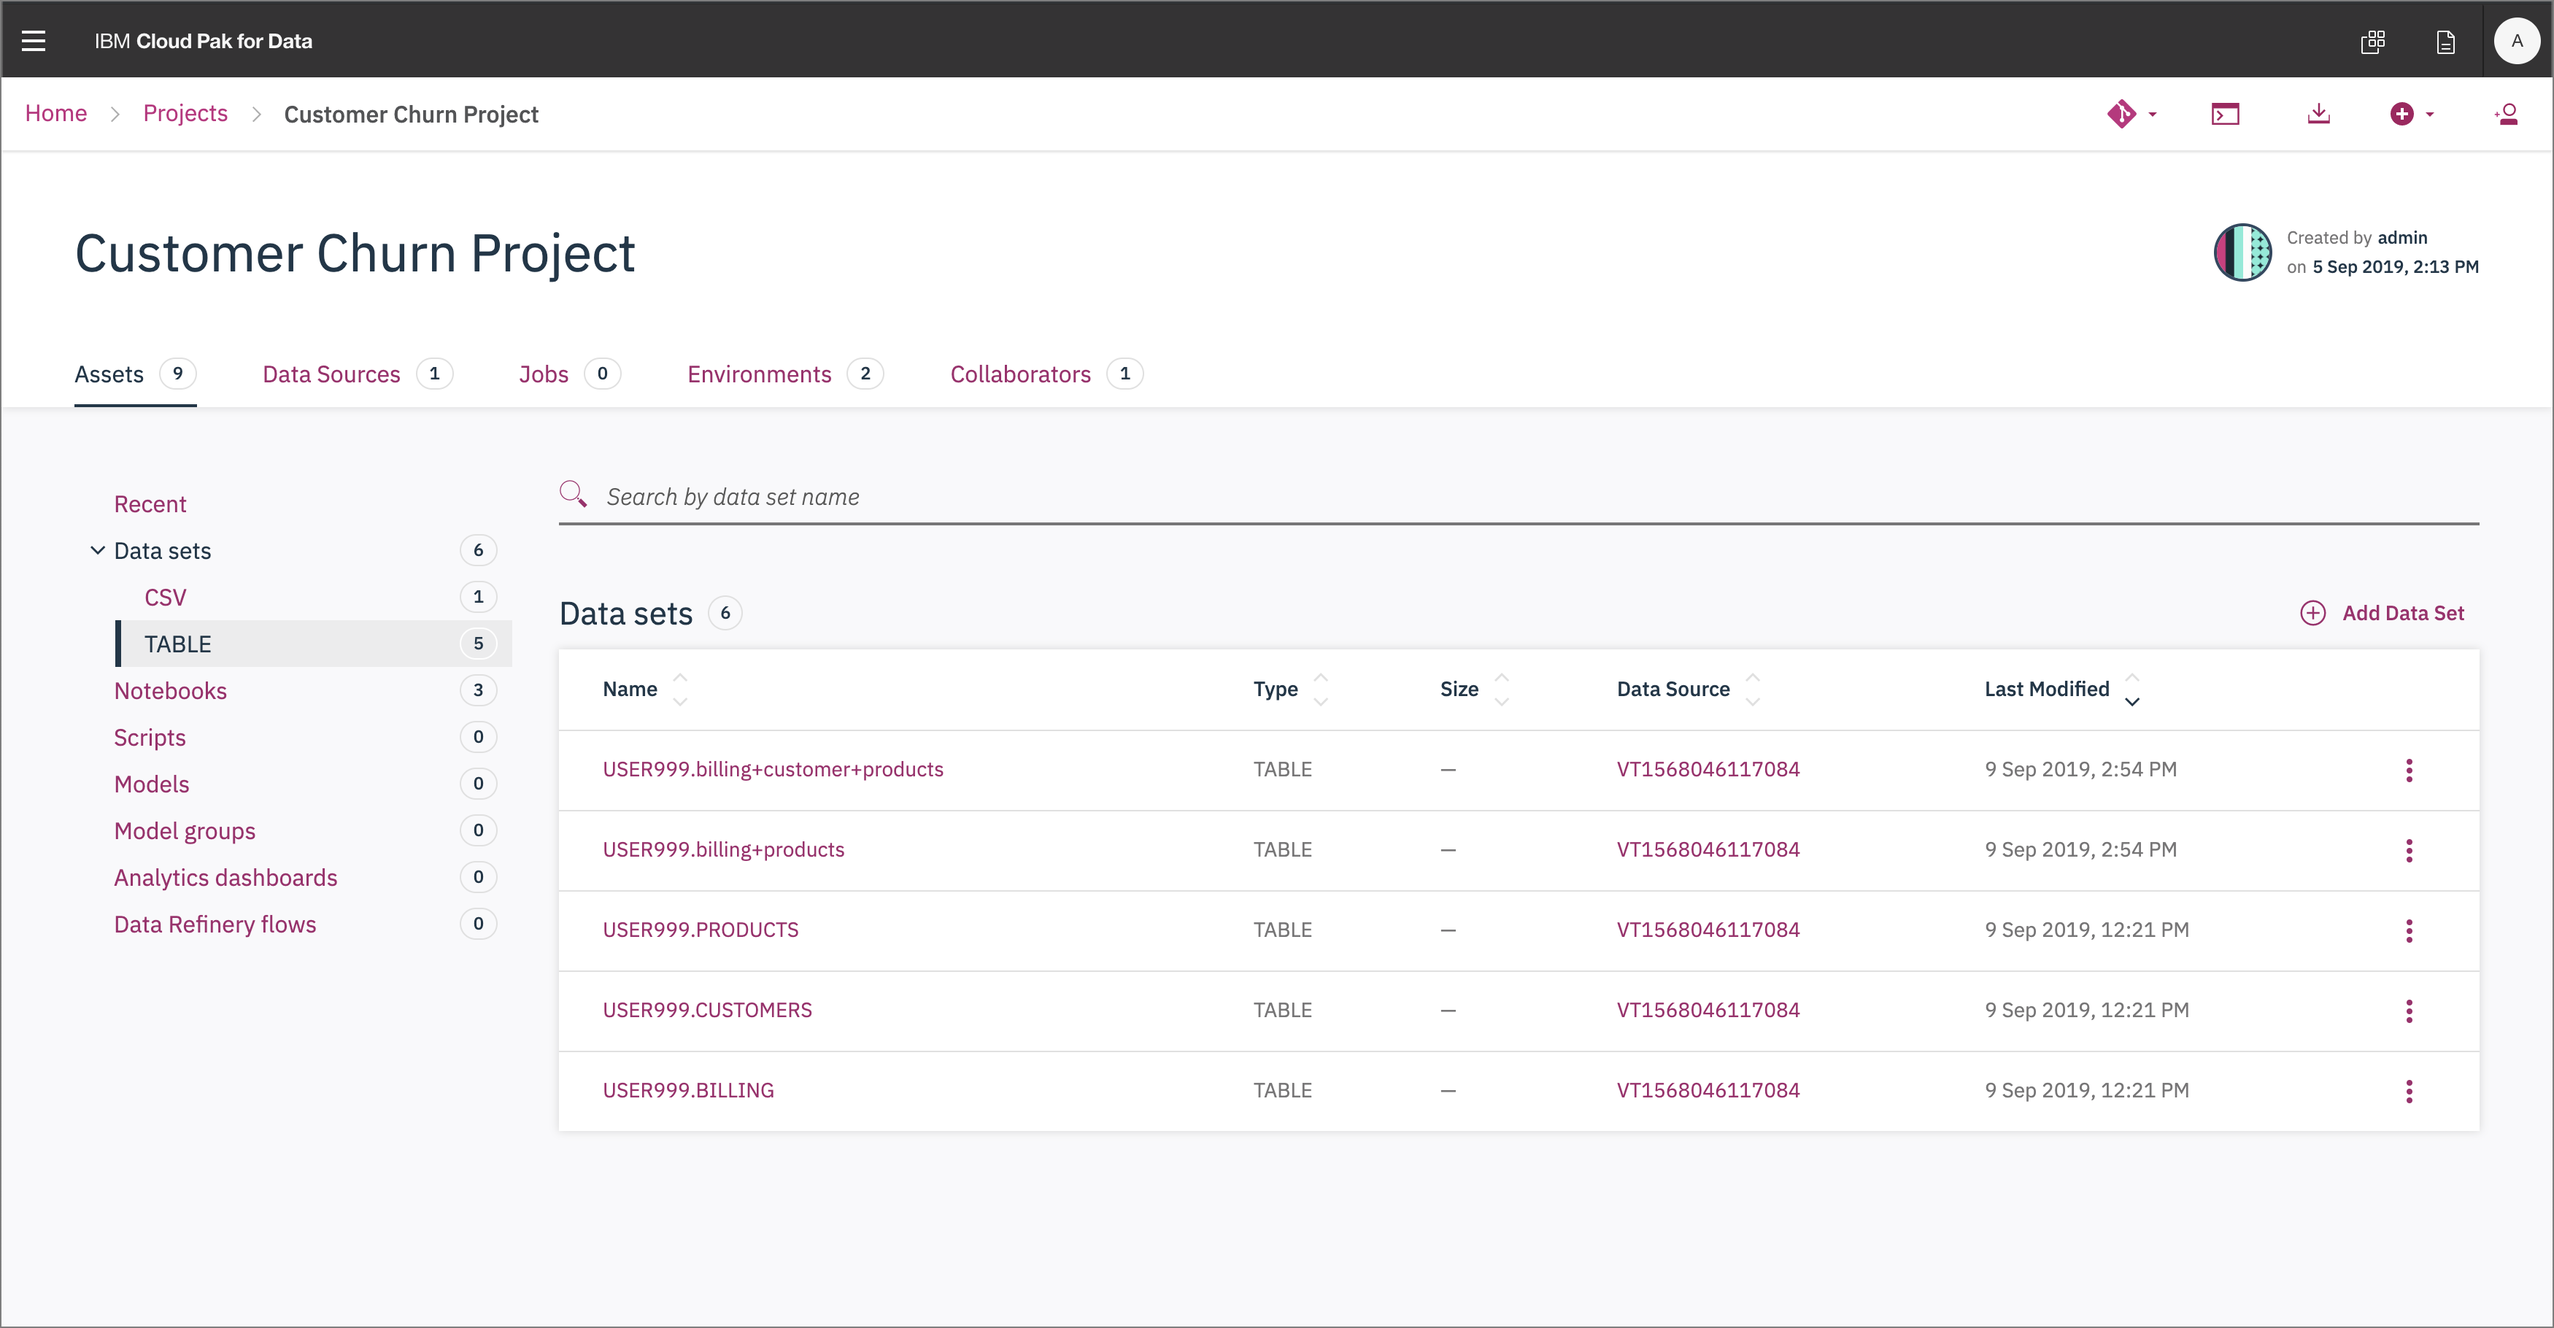
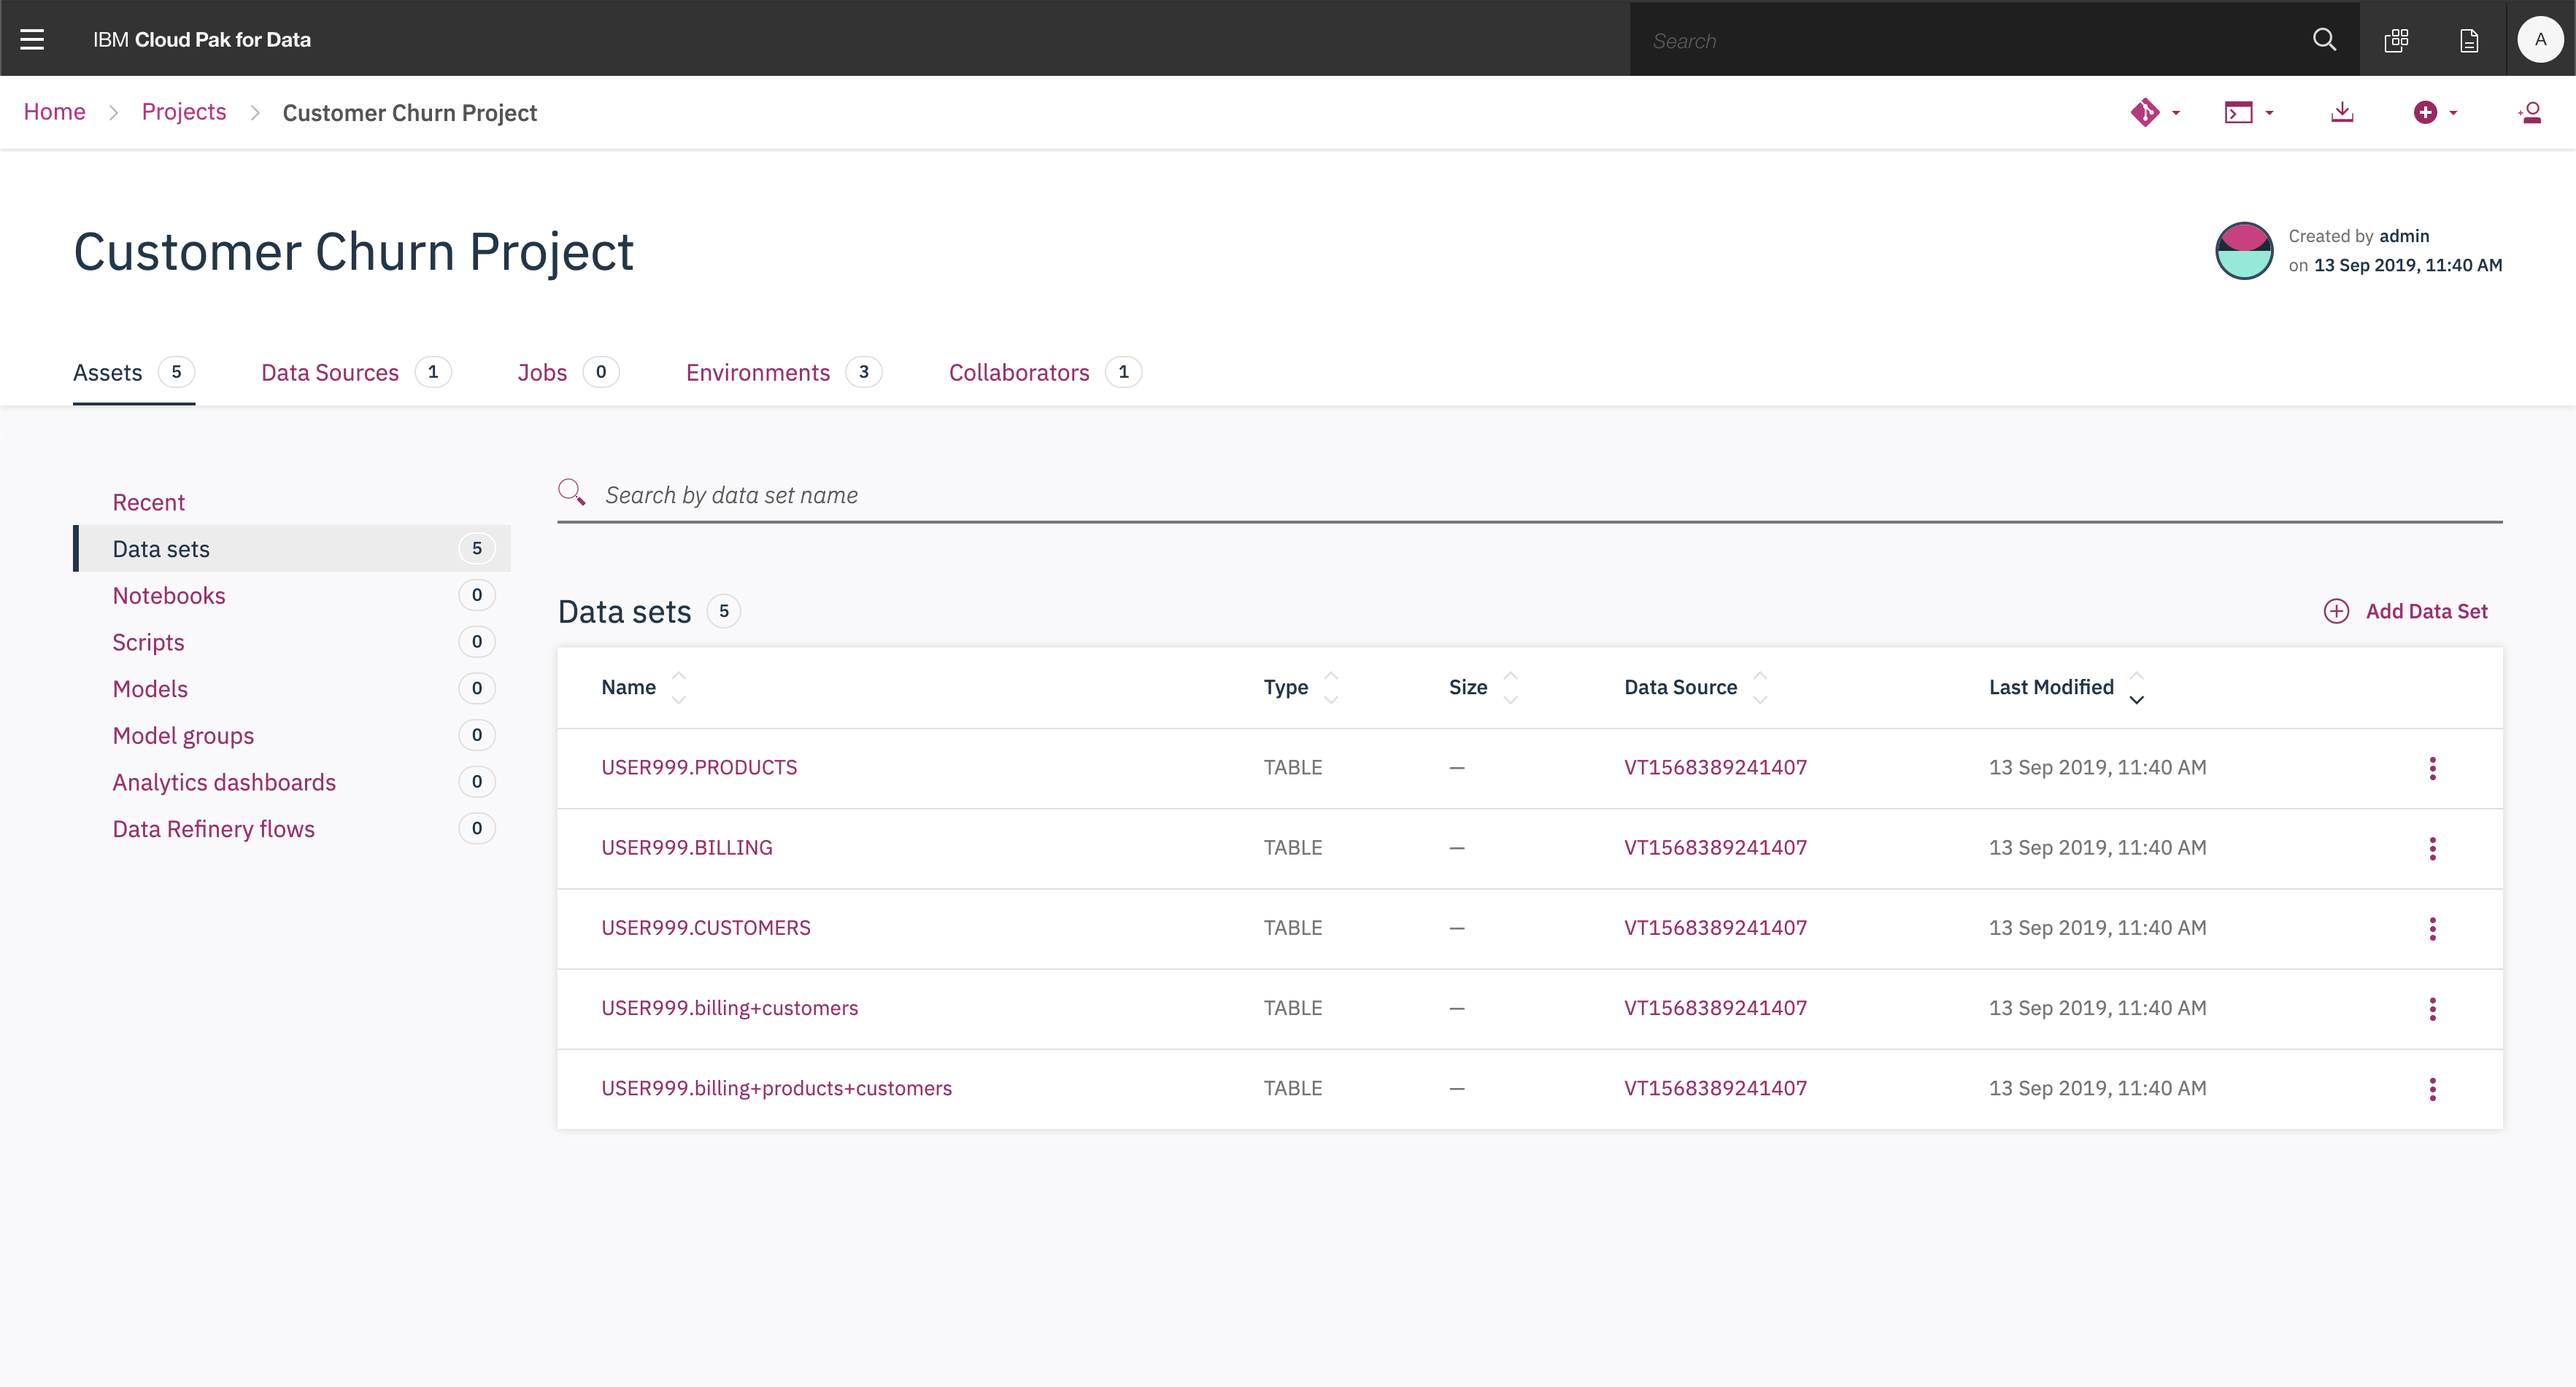
update add data, build model steps

diff --git a/workshop/exercise-2/README.md b/workshop/exercise-2/README.md
@@ -3,83 +3,88 @@
 This section is broken up into the following steps:
 
 1. [Build a model with Spark](#build-a-model-with-spark)
-1. [Deploy a model with Watson Machine Learning](#deploy-a-model-with-watson-machine-learning)
+1. [Create a project release](#create-a-project-release)
 1. [Testing the model with Cloud Pak for Data](#testing-the-model-with-cloud-pak-for-data)
 1. [(Optional) Create a Python Flask app that uses the model](#optional-create-a-python-flask-app-that-uses-the-model)
 
 ## Build a model with Spark
 
-* Either clone this repository:
+### Import the notebook
+
+At the project overview click the *New Asset* button, and choose *Add notebook*.
+
+![Add a new asset](../.gitbook/assets/images/wml/wml-1-add-asset.png)
+
+On the next panel select the *From URL* tab, give your notebook a name, provide the following URL, and choose the Python 3.6 environment:
 
 ```bash
-git clone https://github.com/IBM/cloudpakfordata-telco-churn-workshop
+https://raw.githubusercontent.com/IBM/cloudpakfordata-telco-churn-workshop/master/notebooks/TelcoChurnICP4D.ipynb
 ```
 
-or download the notebook directly:
+> The notebook is hosted in the same repo as [the workshop](https://github.com/IBM/cloudpakfordata-telco-churn-workshop).
+>
+> * **Notebook**: [TelcoChurnICP4D.ipynb](https://github.com/IBM/cloudpakfordata-telco-churn-workshop/blob/master/notebooks/TelcoChurnICP4D.ipynb)
+> * **Notebook with output**: [with-output/TelcoChurnICP4D.ipynb](https://github.com/IBM/cloudpakfordata-telco-churn-workshop/blob/master/notebooks/with-output/TelcoChurnICP4D.ipynb)
 
-```bash
-wget https://raw.githubusercontent.com/IBM/cloudpakfordata-telco-churn-workshop/master/notebooks/TelcoChurnICP4D.ipynb
-```
+![Add notebook name and URL](../.gitbook/assets/images/wml/wml-2-add-name-and-url.png)
 
-### 2. Create a new project and load the notebook
+When the Jupyter notebook is loaded and the kernel is ready then we can start executing cells.
 
-* From the Main Menu, Choose `Project`
+![Notebook loaded](../.gitbook/assets/images/wml/wml-3-notebook-loaded.png)
 
-* Under the `Assets` tab in your project, Click `+ New Project`, give it a name of your choosing (preferably using a tag for you to easily identify it from other users), and click `OK`.
+### Run the notebook
 
-* Choose the `New` tab. Enter an optional description, and click `Create`.
+Spend an minute looking through the sections of the notebook to get an overview. You will run cells individually by highlighting each cell, then either click the `Run` button at the top of the notebook. While the cell is running, an asterisk (`[*]`) will show up to the left of the cell. When that cell has finished executing a sequential number will show up (i.e. `[17]`).
 
-* From the menu on the left, choose `Notebooks` and click `+Add Notebook`.
+#### Install Python packages
 
-* Choose the `From file` tab and navigate to where you downloaded the `TelcoChurnICP4D.ipynb` notebook, either in `~/Downloads/` or the location where you cloned this repository, in the `cloudpakfordata101/workshop` directory.
+Section `1.0 Install required packages` will install libraries used to create the model, such as: [`pyspark`](https://spark.apache.org/docs/latest/api/python/index.html), and [`sklearn`](https://scikit-learn.org/stable/).
 
-### 3. Configure and run the notebook
+#### Add the data set to the notebook
 
-* Spend an minute looking through the sections of the notebook to get an overview
+Section `2.0 Load and Clean data` will load the virtualized data from the previous exercise. Highlight the cell labelled `# Place cursor ...` by clicking on it. Click on the *10/01* button to select a specific data set. Choose The *Remote* tab, and pick the virtualized data set that has all three joined tables (i.e. `User999.billing+products+customers`), and opt to insert the data as a *Pandas DataFrame*.
 
-* You will run cells individually by highlighting each cell by clicking it, then either click the `Run` button at the top of the notebook or `control` + `return` at the same time. While the cell is running, an asterisck will show up in the brackets to the left of the cell `[*]` and when it is done, a sequential number will show up, i.e. `[17]`.
+![Add the data as a Pandas DataFrame](../.gitbook/assets/images/wml/wml-4-add-dataframe.png)
 
-#### Install packages and restart the kernel
+By adding data a block of code will be added to the notebook. The code will automatically load that data set and create a Pandas DataFrame.
 
-* Run the cell in the section `1.0 Install required packages` and wait for it to complete.
+![Generated code to handle Pandas DataFrame](../.gitbook/assets/images/wml/wml-5-generated-code-dataframe.png)
 
-* For Cell `1.1 Restart the Kernel Now` choose the `kernel` tab at the top of the notebook, and click `Restart`. Wait for the kernel to restart and show as connected.
+> **IMPORTANT**: Don't forget to update the next cell `df = df1` with the variable from the generated code.
 
-![x](../.gitbook/assets/images/wml/JupyterRestartKernel.png)
-
-#### Add the dataset to your project and notebook
-
-* In section `2.0 Load and Clean Data` highlite the cell with `# Place cursor below and insert....` by clicking on it.
-
-* Click on the `10/01` tab at the top which has the tooltip `Find data`. Your previously loaded data set shoulud show up.
-
-* Click `Insert to code` and choose `Insert pandas DataFrame`.
-
-* Click the `10/01` "Find data" icon in the upper right of the notebook.
-
-* To load the virtualized data created in Exercise-1, choose the `Remote` tab.
-
-* Choose your virtualized data (i.e. `User<123>.billingProductCustomers`), click `Insert to code` and choose `Insert Pandas DataFrame`
-
-![x](../.gitbook/assets/images/wml/JupyterInsertPandasDF.png)
-
-* The code to bring the data into the notebook environment and create a Pandas DataFrame will be added to the cell below.
-
-* Run the cell to load the data
-
-* Continue with the cells in sections `2.x` to clean the data.
+Continue to run the remaining cells in the section to clean the data.
 
 #### Create the model
 
-* Under `3.0 Create a model`, you may change the `MODEL_NAME` to something unique and easisly identifiable i.e. `<your name>-TelcoChurn`. Add a version number if you are creating multiple versions of the machine learning model that differ.
+Section `3.0 Create a model` will split the data into training and test data, and create a model using the Random Forest Classifier algorithm.
 
-* Run all the cells in sections `3.x` to create the ML model.
+![Building the pipeline and model](../.gitbook/assets/images/wml/wml-6-buid-pipeline-and-model.png)
+
+Continue to run the remaining cells in the section to build the model.
 
 #### Save the model
 
-* Run the cells under `4.0 Save the model` to save the model into your project.
+Section `4.0 Save the model` will save the model to your project. Update the `MODEL_NAME` variable to something unique and easisly identifiable.
 
-## Deploying a model with Watson Machine Learning
+```python
+MODEL_NAME = "user123 customer churn model"
+```
+
+Continue to run the remaining cells in the section to save the model to Cloud Pak for Data. We'll be able to test it out with the Cloud Pak for Data tools in just a few minutes!
+
+#### Deploy to Watson Machine Learning
+
+Section `5.0 Deploy the model to Watson Machine Learning` will deploy your model to the Watson Machine Learning service with the Watson Machine Learning client. Update the credentials in the cell seen below. Your instructor will provide the URL, the username and password are the same used to log into Cloud Pak for Data.
+
+![Update credentials](../.gitbook/assets/images/wml/wml-7-update-credentials.png)
+
+Once deployed the model and deployment will be viewed.
+
+![Building the pipeline and model](../.gitbook/assets/images/wml/wml-8-deploy-to-wml.png)
+
+We've successfully built and deployed a machine learning model. Congratulations!
+
+## Create a project release
 
 Next, we'll create a project release and tag the model under version control. We'll use model management and deployment to make the released model available as a web service (REST API).
 
@@ -101,7 +106,7 @@ Next, we'll create a project release and tag the model under version control. We
 
 * Use the same git icon, and choose 'Push'. Add a tag, i.e. `v1`, `v2`, etc and click `Push`
 
-### Create a project release
+### Release a new version
 
 Now that we have a committed and tagged version of the project, we can create a project release and deploy it as a web service.
 
